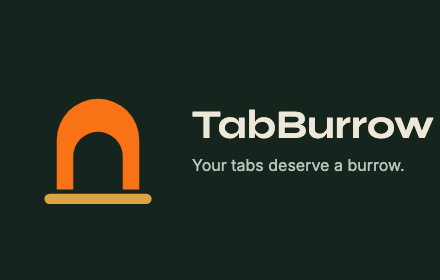
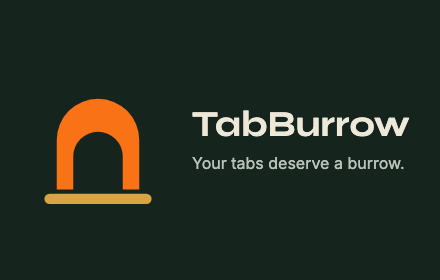
fix(assets): unlocked-state dashboard shot, promo tile margins
02-dashboard-grid.png was staged signed-out, so the "Organize with AI"
and "Share" header buttons showed lock glyphs on the store listing's
most-viewed screenshot. capture-assets.ts's shot 02 now runs in its
own signed-in, plan-flipped-PRO session (new phaseDashboardGrid,
callable standalone or via phaseMain) reusing the harness's existing
OTP + plan-flip helpers, and clears its test user afterward.

promo-tile-440x280.png: the "TabBurrow" wordmark overflowed the
flex layout's right padding (default overflow:visible let it bleed to
~6px from the canvas edge); capped the text column's max-width and
shrank the wordmark from 40px to 36px for a comfortable ~30px margin,
with overflow:hidden as a defensive clip against future regressions.
Audited the full pixel data for the reported bottom-left artifact
(deterministic re-render, full-image color histogram, bounding-box
scan) and found no stray content in either the old or new render.

Changed region(s): [[0.4432, 0.3714, 1.0, 0.5143], [0.4432, 0.5429, 0.9159, 0.6286]]

diff --git a/apps/extension/e2e/capture-assets.ts b/apps/extension/e2e/capture-assets.ts
@@ -30,7 +30,7 @@ import { deleteAdminUser, deleteCloudDataForUser, findAdminUserByEmail, setUserP
  *
  * Run (from apps/extension):
  *   npx tsx e2e/capture-assets.ts [phase]
- *   phase: all (default) | main | share | tile | hero | gif
+ *   phase: all (default) | main | dashboard-grid | share | tile | hero | gif
  *
  * Requires:
  *  - `pnpm --filter extension build` already run (this script does not do
@@ -40,8 +40,11 @@ import { deleteAdminUser, deleteCloudDataForUser, findAdminUserByEmail, setUserP
  *    dance", duplicated here) and restores the normal build afterward.
  *  - the local Supabase stack running (`supabase start`) with
  *    SUPABASE_SERVICE_ROLE_KEY and ANTHROPIC_API_KEY set in the root
- *    `.env` — the "main" phase's AI-organize shot and the "share" phase
- *    both need live infra, same as t20/t22's specs.
+ *    `.env` — the "main" phase's dashboard-grid (shot 02, signed-in PRO —
+ *    see phaseDashboardGrid) and AI-organize (shot 03) shots, and the
+ *    "share" phase, all need live infra, same as t18/t20/t22's specs.
+ *    "dashboard-grid" is also its own standalone phase, for re-capturing
+ *    just that one shot.
  */
 
 const __dirname = path.dirname(fileURLToPath(import.meta.url));
@@ -291,13 +294,121 @@ function toSeedLinks(collectionId: string, items: Array<{ title: string; url: st
   }));
 }
 
+/** Seeds the five rail collections (4-6 per listing.md's shot 2 spec) shared by shots 01, 02, and 04 — one source of truth for phaseMain()'s own `dash` page AND phaseDashboardGrid()'s separate standalone session below, instead of two copies of this data drifting apart. */
+async function seedMainCollections(dash: Page) {
+  const kitchenRenoId = randomUUID();
+  const competitorId = randomUUID();
+  const portlandId = randomUUID();
+  const devDocsId = randomUUID();
+  const recipesId = randomUUID();
+
+  const collections: SeedCollection[] = [
+    { id: kitchenRenoId, name: "Kitchen reno research", accent: "var(--accent)", position: seedPosition(0) },
+    { id: competitorId, name: "Q3 competitor teardown", accent: "var(--accent-2)", position: seedPosition(1) },
+    { id: portlandId, name: "Weekend in Portland", accent: "color-mix(in srgb, var(--accent) 50%, var(--accent-2) 50%)", position: seedPosition(2) },
+    { id: devDocsId, name: "Dev docs I keep rereading", accent: "color-mix(in srgb, var(--muted) 60%, var(--text) 40%)", position: seedPosition(3) },
+    { id: recipesId, name: "Recipes worth repeating", accent: "color-mix(in srgb, var(--accent) 70%, var(--text) 30%)", position: seedPosition(4) },
+  ];
+  const links: SeedLink[] = [
+    ...toSeedLinks(kitchenRenoId, KITCHEN_RENO_LINKS),
+    ...toSeedLinks(competitorId, COMPETITOR_TEARDOWN_LINKS),
+    ...toSeedLinks(portlandId, PORTLAND_LINKS),
+    ...toSeedLinks(devDocsId, DEV_DOCS_LINKS),
+    ...toSeedLinks(recipesId, RECIPES_LINKS),
+  ];
+  await seedCollectionsAndLinks(dash, collections, links);
+  await seedMeta(dash, { lastUsedCollectionId: kitchenRenoId }); // duplicated literal — see lib/commands.ts's LAST_USED_COLLECTION_META_KEY
+  await dash.reload();
+
+  return { kitchenRenoId, competitorId, portlandId, devDocsId, recipesId };
+}
+
 // ---------------------------------------------------------------------------
-// Phase: main (shots 1, 2, 4 on the normal build; shot 3 needs sign-in for
-// the live AI-organize call)
+// Phase: dashboard-grid (shot 02) — its own persistent context/session,
+// deliberately NOT sharing phaseMain()'s `dash` page used for shots 01/04, so
+// signing in here can never leak into (and change the appearance of) those
+// other, intentionally-signed-out shots. Signed-in + plan-flipped PRO (same
+// OTP + admin-API plan-flip helpers phaseShare() uses for shot 05): the
+// dashboard grid is the store listing's most-viewed screenshot, and
+// DashboardMain.tsx's "Organize with AI"/"Share" header buttons render a
+// literal "🔒" glyph whenever `signedIn` is false, which made both headline
+// features look paywalled in a signed-out capture. PRO is flipped too (not
+// just signed in) so the account state is fully truthful, not merely
+// unlocked-looking.
+//
+// Callable standalone (`npx tsx e2e/capture-assets.ts dashboard-grid`) to
+// re-capture ONLY this one shot without also re-running shots 01/03/04 (03
+// makes a live, costlier Anthropic call). phaseMain() also calls this
+// directly so a full "main"/"all" run still produces all four "main" shots.
+// ---------------------------------------------------------------------------
+
+const DASHBOARD_GRID_EMAIL = "capture-dashboard-grid@tabburrow.test";
+
+async function phaseDashboardGrid(): Promise<void> {
+  log("Phase dashboard-grid: shot 02 (signed-in, PRO)");
+  const { context, extensionId, userDataDir } = await launchExtensionContextAt();
+
+  try {
+    const dash = await context.newPage();
+    await dash.goto(`chrome-extension://${extensionId}/dashboard.html`);
+    await resetData(dash);
+
+    const { kitchenRenoId } = await seedMainCollections(dash);
+
+    const env = loadRootEnv();
+    const SUPABASE_URL = env.SUPABASE_URL || "http://127.0.0.1:54321";
+    const SERVICE_ROLE_KEY = env.SUPABASE_SERVICE_ROLE_KEY;
+
+    if (!SERVICE_ROLE_KEY) {
+      console.warn("  02-dashboard-grid: capturing SIGNED OUT — SUPABASE_SERVICE_ROLE_KEY not set in root .env, so Organize with AI / Share will show locked.");
+    } else {
+      const existing = await findAdminUserByEmail(SUPABASE_URL, SERVICE_ROLE_KEY, DASHBOARD_GRID_EMAIL);
+      if (existing) await deleteAdminUser(SUPABASE_URL, SERVICE_ROLE_KEY, existing.id);
+
+      await dash.goto(`chrome-extension://${extensionId}/dashboard.html#/settings`);
+      await signInWithEmailOtp(dash, DASHBOARD_GRID_EMAIL);
+      const authUser = await findAdminUserByEmail(SUPABASE_URL, SERVICE_ROLE_KEY, DASHBOARD_GRID_EMAIL);
+      if (!authUser) throw new Error("expected an auth.users row after sign-in");
+      await setUserPlan(SUPABASE_URL, SERVICE_ROLE_KEY, authUser.id, "pro");
+      await dash.getByRole("button", { name: "Refresh status" }).click();
+      await expect(dash.getByText("PRO", { exact: true })).toBeVisible();
+    }
+
+    // --- Shot 02: dashboard grid ---
+    await dash.goto(`chrome-extension://${extensionId}/dashboard.html#/c/${kitchenRenoId}`);
+    await expect(dash.getByRole("heading", { name: "Kitchen reno research" })).toBeVisible();
+    await expect(dash.getByRole("listbox", { name: "Links" }).getByRole("option")).toHaveCount(KITCHEN_RENO_LINKS.length);
+    if (SERVICE_ROLE_KEY) {
+      await expect(dash.getByRole("button", { name: "Organize with AI", exact: true })).toBeVisible();
+      await expect(dash.getByRole("button", { name: "Share", exact: true })).toBeVisible();
+    }
+    // Move the mouse off-canvas before the shot — its last position (from
+    // clicking "Refresh status" on the Settings route above) can otherwise
+    // still land over the first grid card after navigating here, leaving a
+    // stray hover state (drag-grip + rename-pencil icons, underlined title)
+    // baked into the screenshot.
+    await dash.mouse.move(0, 0);
+    await dash.waitForTimeout(300); // let favicon fallbacks (broken -> globe SVG) settle, and any hover state clear, before the shot
+    await dash.screenshot({ path: path.join(SCREENSHOTS_DIR, "02-dashboard-grid.png") });
+    console.log("  wrote screenshots/02-dashboard-grid.png (1280x800)");
+
+    if (SERVICE_ROLE_KEY) {
+      const authUser = await findAdminUserByEmail(SUPABASE_URL, SERVICE_ROLE_KEY, DASHBOARD_GRID_EMAIL);
+      if (authUser) await deleteAdminUser(SUPABASE_URL, SERVICE_ROLE_KEY, authUser.id);
+    }
+  } finally {
+    await closeExtensionContext(context, userDataDir);
+  }
+}
+
+// ---------------------------------------------------------------------------
+// Phase: main (shots 1, 4 on the normal build, signed out; shot 2 is
+// captured separately by phaseDashboardGrid — signed-in PRO, its own
+// session; shot 3 needs sign-in for the live AI-organize call)
 // ---------------------------------------------------------------------------
 
 async function phaseMain(): Promise<void> {
-  log("Phase main: shots 01, 02, 03, 04");
+  log("Phase main: shots 01, 02 (via phaseDashboardGrid), 03, 04");
   const localServer = await startLocalServer();
   const { context, extensionId, userDataDir } = await launchExtensionContextAt();
 
@@ -307,37 +418,10 @@ async function phaseMain(): Promise<void> {
     await resetData(dash);
 
     // --- Seed the five rail collections (4-6 per listing.md's shot 2 spec) ---
-    const kitchenRenoId = randomUUID();
-    const competitorId = randomUUID();
-    const portlandId = randomUUID();
-    const devDocsId = randomUUID();
-    const recipesId = randomUUID();
+    const { kitchenRenoId } = await seedMainCollections(dash);
 
-    const collections: SeedCollection[] = [
-      { id: kitchenRenoId, name: "Kitchen reno research", accent: "var(--accent)", position: seedPosition(0) },
-      { id: competitorId, name: "Q3 competitor teardown", accent: "var(--accent-2)", position: seedPosition(1) },
-      { id: portlandId, name: "Weekend in Portland", accent: "color-mix(in srgb, var(--accent) 50%, var(--accent-2) 50%)", position: seedPosition(2) },
-      { id: devDocsId, name: "Dev docs I keep rereading", accent: "color-mix(in srgb, var(--muted) 60%, var(--text) 40%)", position: seedPosition(3) },
-      { id: recipesId, name: "Recipes worth repeating", accent: "color-mix(in srgb, var(--accent) 70%, var(--text) 30%)", position: seedPosition(4) },
-    ];
-    const links: SeedLink[] = [
-      ...toSeedLinks(kitchenRenoId, KITCHEN_RENO_LINKS),
-      ...toSeedLinks(competitorId, COMPETITOR_TEARDOWN_LINKS),
-      ...toSeedLinks(portlandId, PORTLAND_LINKS),
-      ...toSeedLinks(devDocsId, DEV_DOCS_LINKS),
-      ...toSeedLinks(recipesId, RECIPES_LINKS),
-    ];
-    await seedCollectionsAndLinks(dash, collections, links);
-    await seedMeta(dash, { lastUsedCollectionId: kitchenRenoId }); // duplicated literal — see lib/commands.ts's LAST_USED_COLLECTION_META_KEY
-    await dash.reload();
-
-    // --- Shot 02: dashboard grid ---
-    await dash.goto(`chrome-extension://${extensionId}/dashboard.html#/c/${kitchenRenoId}`);
-    await expect(dash.getByRole("heading", { name: "Kitchen reno research" })).toBeVisible();
-    await expect(dash.getByRole("listbox", { name: "Links" }).getByRole("option")).toHaveCount(KITCHEN_RENO_LINKS.length);
-    await dash.waitForTimeout(300); // let favicon fallbacks (broken -> globe SVG) settle before the shot
-    await dash.screenshot({ path: path.join(SCREENSHOTS_DIR, "02-dashboard-grid.png") });
-    console.log("  wrote screenshots/02-dashboard-grid.png (1280x800)");
+    // --- Shot 02: dashboard grid — own separate context/session, signed-in PRO (see phaseDashboardGrid's docstring above) ---
+    await phaseDashboardGrid();
 
     // --- Shot 01: popup save (mid-flow, picker open, over a real tab) ---
     const bgPage = await context.newPage();
@@ -655,13 +739,23 @@ async function phaseTile(): Promise<void> {
     console.warn("  SKIPPING icon-128.png: .output/chrome-mv3/icons/128.png missing — run `pnpm --filter extension build` first");
   }
 
+  // Text column budget: 440 - 32(left pad) - 132(icon) - 28(gap) - 32(right
+  // pad) = 216px. At the original 40px Syne Bold, "TabBurrow" measures
+  // ~241.8px wide — wider than that budget, so the flex item (no max-width,
+  // default overflow:visible) rendered past the right padding and nearly to
+  // the canvas edge (~6px margin, measured via a headless render's
+  // getBoundingClientRect). 36px measures ~217.6px, fitting inside a 220px
+  // cap (matching .tagline's own existing max-width) with a comfortable
+  // ~28px right margin — `max-width` on `.text` + `overflow:hidden` on
+  // `.wordmark` are a belt-and-suspenders clip so a future copy/font change
+  // can't silently reintroduce the edge-touching bleed.
   const html = `<!doctype html><html><head><style>
     ${brandFontFaces()}
     html,body{margin:0;padding:0;width:440px;height:280px;background:${BRAND_GROUND};overflow:hidden;}
     .wrap{display:flex;align-items:center;gap:28px;width:440px;height:280px;padding:0 32px;box-sizing:border-box;}
     .icon{width:132px;height:132px;flex-shrink:0;}
-    .text{display:flex;flex-direction:column;gap:10px;}
-    .wordmark{font-family:"Syne",sans-serif;font-weight:700;font-size:40px;line-height:1;color:${BRAND_CREAM};margin:0;}
+    .text{display:flex;flex-direction:column;gap:10px;max-width:220px;}
+    .wordmark{font-family:"Syne",sans-serif;font-weight:700;font-size:36px;line-height:1;color:${BRAND_CREAM};margin:0;white-space:nowrap;overflow:hidden;}
     .tagline{font-family:"Inter",sans-serif;font-weight:400;font-size:16px;line-height:1.3;color:${BRAND_CREAM_DIM};margin:0;max-width:220px;}
   </style></head><body>
     <div class="wrap">
@@ -918,17 +1012,20 @@ async function main(): Promise<void> {
   const phase = process.argv[2] ?? "all";
   const run: Record<string, () => Promise<void>> = {
     main: phaseMain,
+    "dashboard-grid": phaseDashboardGrid,
     share: phaseShare,
     tile: phaseTile,
     hero: phaseHero,
     gif: phaseGif,
   };
   if (phase === "all") {
+    // "dashboard-grid" (shot 02) is NOT listed separately here — phaseMain()
+    // already calls it directly so shot 02 is still produced exactly once.
     for (const key of ["main", "share", "tile", "hero", "gif"]) await run[key]!();
   } else if (run[phase]) {
     await run[phase]!();
   } else {
-    console.error(`Unknown phase "${phase}". Expected one of: all, main, share, tile, hero, gif`);
+    console.error(`Unknown phase "${phase}". Expected one of: all, main, dashboard-grid, share, tile, hero, gif`);
     process.exitCode = 1;
     return;
   }

diff --git a/store-assets/promo-tile.html b/store-assets/promo-tile.html
@@ -16,8 +16,8 @@
     html,body{margin:0;padding:0;width:440px;height:280px;background:#16241E;overflow:hidden;}
     .wrap{display:flex;align-items:center;gap:28px;width:440px;height:280px;padding:0 32px;box-sizing:border-box;}
     .icon{width:132px;height:132px;flex-shrink:0;}
-    .text{display:flex;flex-direction:column;gap:10px;}
-    .wordmark{font-family:"Syne",sans-serif;font-weight:700;font-size:40px;line-height:1;color:#EEE8D9;margin:0;}
+    .text{display:flex;flex-direction:column;gap:10px;max-width:220px;}
+    .wordmark{font-family:"Syne",sans-serif;font-weight:700;font-size:36px;line-height:1;color:#EEE8D9;margin:0;white-space:nowrap;overflow:hidden;}
     .tagline{font-family:"Inter",sans-serif;font-weight:400;font-size:16px;line-height:1.3;color:#B9C3BB;margin:0;max-width:220px;}
   </style></head><body>
     <div class="wrap">
